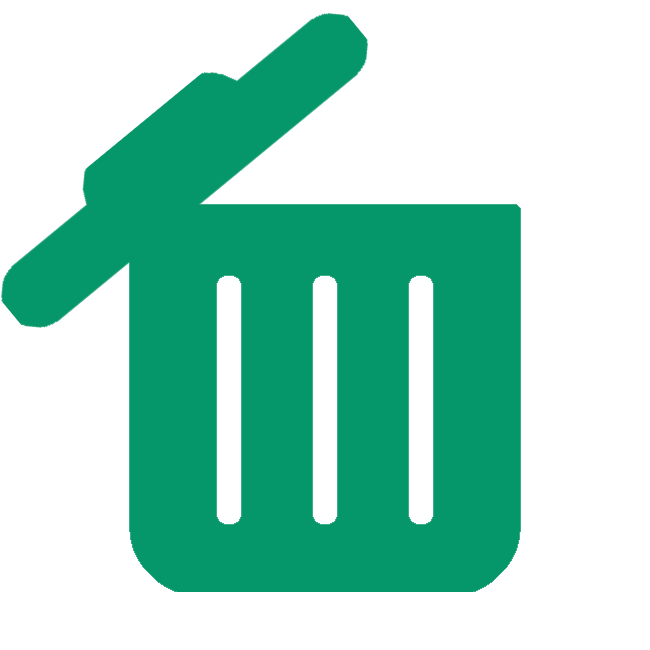
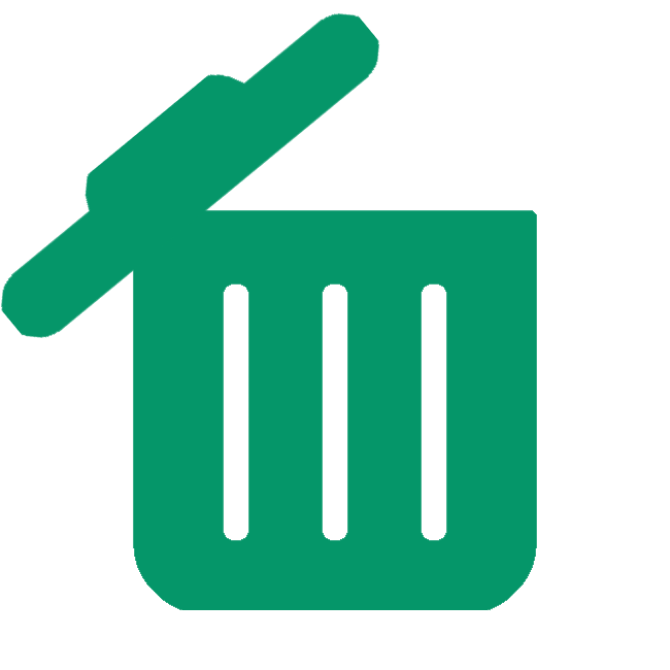
選択削除機能　レイアウト微調整など

Changed region(s): [[0.1538, 0.2154, 0.1846, 0.2462]]

diff --git a/src/components/client/ui/ClearListButton.client.tsx b/src/components/client/ui/ClearListButton.client.tsx
@@ -1,35 +1,39 @@
+// ClearListButton.tsx
 import React, { useState } from "react";
 import Image from "next/image";
 
 interface ClearListButtonProps {
-  onClear: () => void;
+  onClear: (onlyCompleted: boolean) => void; // onClearにパラメータを追加
   isTodoCompleted: boolean;
 }
 
-const ClearListButton: React.FC<ClearListButtonProps> = ({ onClear,isTodoCompleted }) => {
+const ClearListButton: React.FC<ClearListButtonProps> = ({
+  onClear,
+  isTodoCompleted,
+}) => {
   const [isHovered, setIsHovered] = useState(false);
 
   const handleClear = () => {
-    console.log("handleClear called");
-    if (window.confirm("リストを全て削除しますか？")) {
-      console.log("Clear confirmed");
-      onClear();
+    const message = isTodoCompleted
+      ? "選択したリストを削除しますか？"
+      : "リストを全て削除しますか？";
+
+    if (window.confirm(message)) {
+      onClear(isTodoCompleted);
     }
   };
 
-  const handleMouseEnter = () => {
-    setIsHovered(true);
-  };
-
-  const handleMouseLeave = () => {
-    setIsHovered(false);
-  };
+  const handleMouseEnter = () => setIsHovered(true);
+  const handleMouseLeave = () => setIsHovered(false);
 
   const getImageSrc = () => {
+    // isTodoCompletedがtrueの場合は常にアクティブなアイコンを表示
     if (isTodoCompleted) {
-      return "/DeleteButtonActive.png"; // チェックが入っている時の画像
+      return "/DeleteButtonActive.png";
+    } else {
+      // ホバー状態によってアイコンを切り替え
+      return isHovered ? "/DeleteButtonActive.png" : "/DeleteButton.png";
     }
-    return isHovered ? "/DeleteButtonActive.png" : "/DeleteButton.png";
   };
 
   return (
@@ -39,7 +43,7 @@ const ClearListButton: React.FC<ClearListButtonProps> = ({ onClear,isTodoComplet
       onMouseLeave={handleMouseLeave}
       className="fixed bottom-4 right-4 bg-white w-12 h-12 border border-stone-300 rounded-full flex justify-center items-center"
     >
-      <Image src={getImageSrc()} alt="削除" width={22} height={22} priority />
+      <Image src={getImageSrc()} alt="削除" width={27} height={27} priority />
     </button>
   );
 };

diff --git a/src/app/page.tsx b/src/app/page.tsx
@@ -22,12 +22,17 @@ const Page = () => {
     setTimeout(() => setLoading(false), 200);
   }, []);
 
-  const clearTodos = () => setTodos([]);
-  const isAnyTodoCompleted = todos.some(todo => todo.completed);
-
+  const clearTodos = (onlyCompleted = false) => {
+    if (onlyCompleted) {
+      const filteredTodos = todos.filter(todo => !todo.completed);
+      setTodos(filteredTodos);
+    } else {
+      setTodos([]);
+    }
+  };
   return (
     <main>
-      <form onSubmit={handleSubmit} className="mb-4 relative flex justify-between smd:justify-start">
+      <form onSubmit={handleSubmit} className="mb-5 relative flex justify-between smd:justify-start">
         <input type="text" value={inputValue} onChange={handleChange}
           placeholder="入力欄 ..." className="border-2 p-2 rounded mr-2 w-9/12 focus:outline-none focus:border-yellow-950"/>
         {error && <div className="error">{error}</div>}
@@ -38,18 +43,20 @@ const Page = () => {
           {todos.map((todo) => (
             <li key={todo.id} className={`Todolist flex justify-between items-center ${selectedId === todo.id ? "selected" : ""}`}
                 onClick={() => handleSelect(todo.id)}>
-              {todo.text}
-              <input
-                type="checkbox"
-                checked={todo.completed}
-                onChange={() => toggleTodoComplete(todo.id)}
-                className="mr-1 align-middle h-5 w-5"
-              />
+              <span className='listItem'>{todo.text}</span>
+              <div onClick={(e) => e.stopPropagation()} className="h-6 w-6 mr-3"> {/* Prevent event propagation */}
+                <input
+                  type="checkbox"
+                  checked={todo.completed}
+                  onChange={() => toggleTodoComplete(todo.id)}
+                  className=" align-middle h-7 w-7 accent-green-900"
+                />
+              </div>
             </li>
           ))}
         </ul>
       )}
-       <ClearListButton onClear={clearTodos} isTodoCompleted={isAnyTodoCompleted} />
+      <ClearListButton onClear={clearTodos} isTodoCompleted={todos.some(todo => todo.completed)} />
     </main>
   );
 };

diff --git a/src/app/globals.css b/src/app/globals.css
@@ -30,11 +30,17 @@ body {
   font-style: normal;
 }
 .brown {
-    color: #5e3425;
+  color: #5e3425;
 }
 .selected {
-    background-color: #e3f7ed; /* 背景色をグレーに設定 */
-  }
+  background-color: #e3f7ed; /* 背景色をグレーに設定 */
+}
+.listItem {
+    width: 87%;
+}
+/* input[type="checkbox"] {
+  accent-color: #5e3425; 
+} */
 
 @layer utilities {
   /* ._container {
@@ -44,6 +50,6 @@ body {
     @apply text-stone-400 absolute top-0 left-20 pl-1 pt-2.5;
   }
   .Todolist {
-    @apply  bg-emerald-100 p-2 rounded mb-1 text-neutral-900
+    @apply bg-emerald-100 py-2 pl-2 rounded mb-2 text-neutral-900;
   }
 }
